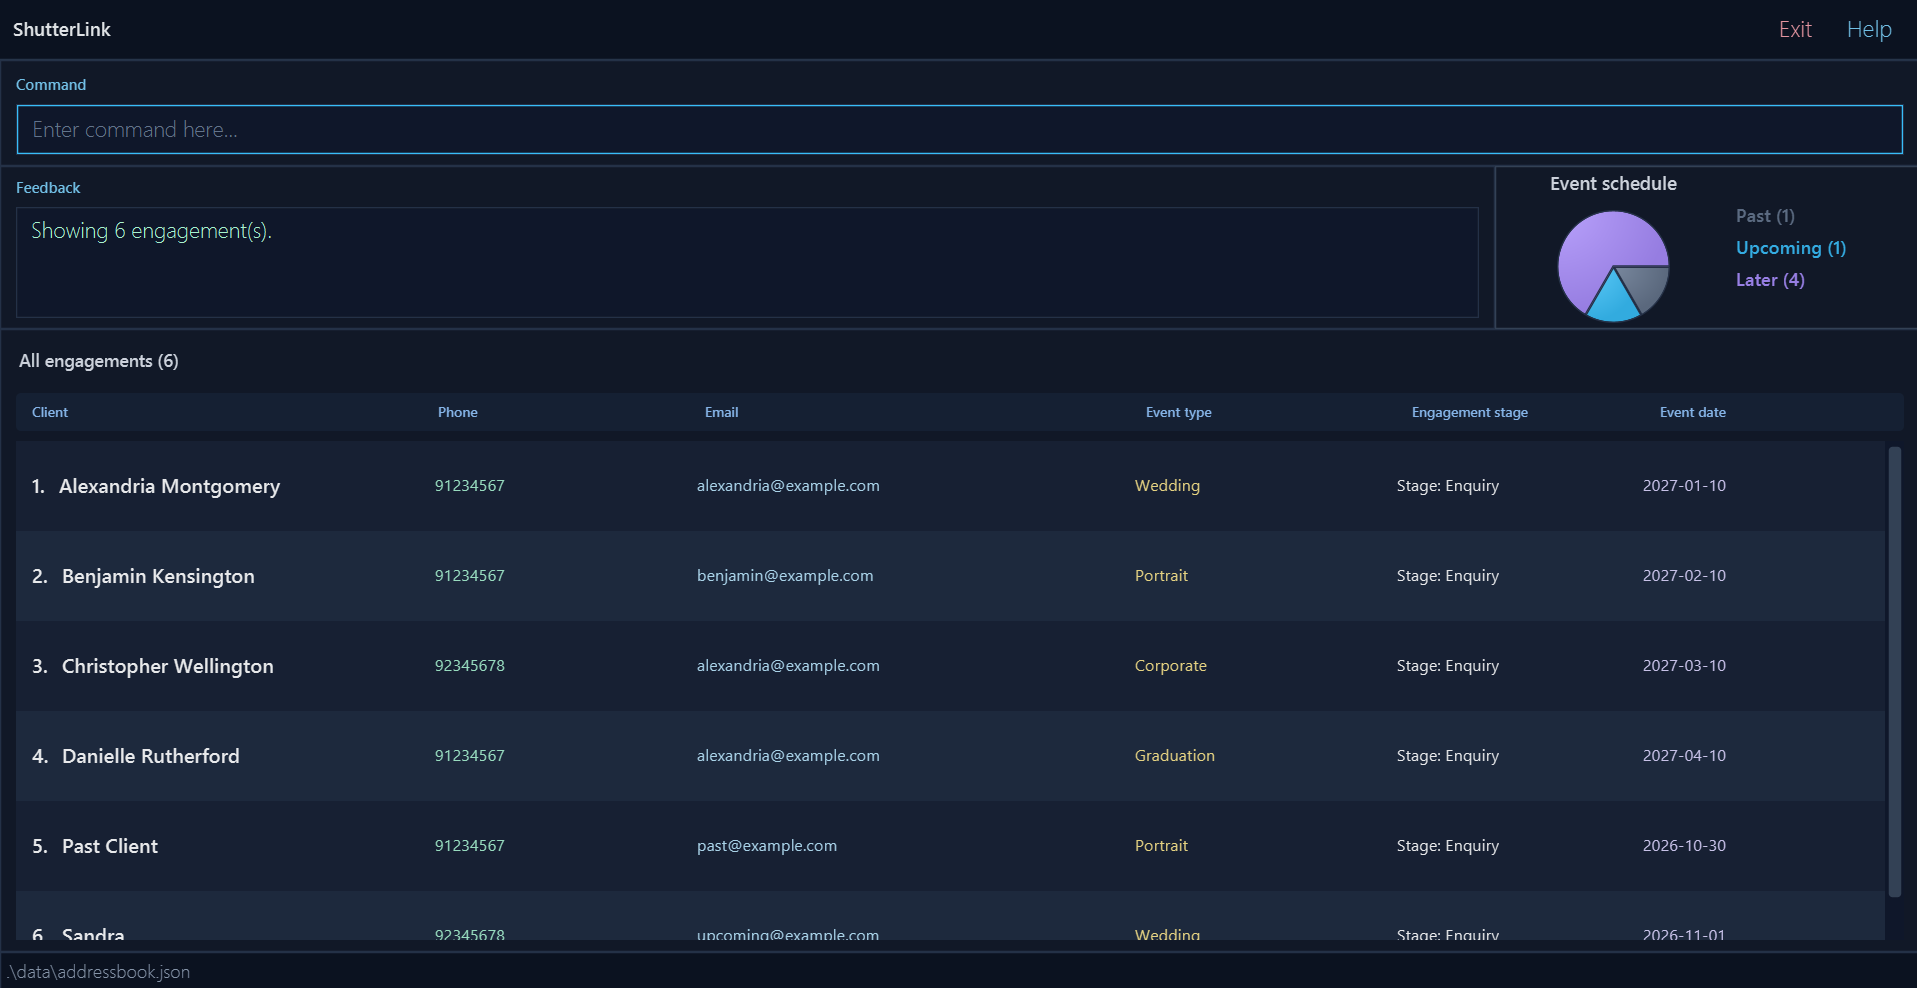
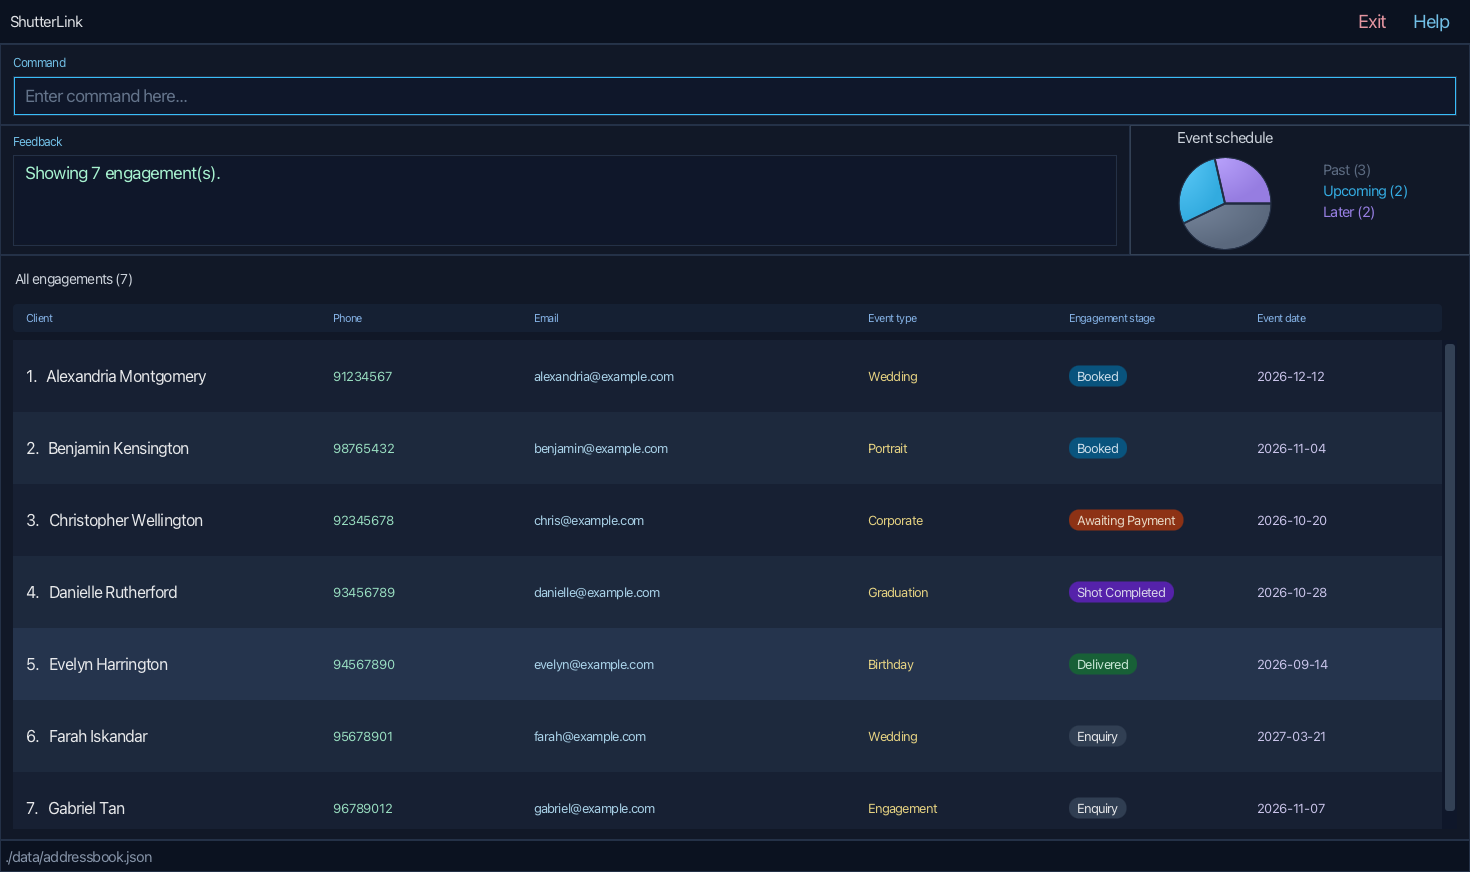
Colour engagement stages and explain empty lists
Show each card's stage as a coloured badge so the workflow can be
scanned at a glance, and reuse the colour in the details dialog. The
badge drops the redundant "Stage: " prefix, which the column header
already provides, so long stages are less likely to be truncated.

Show "No engagements to display." when the current view is empty,
instead of a blank list area.

Update Ui.png and the UG screenshots that show engagement cards.

diff --git a/src/main/resources/view/DarkTheme.css b/src/main/resources/view/DarkTheme.css
@@ -710,3 +710,35 @@
 #columnHeader {
     -fx-padding: 7 13 7 13;
 }
+
+/* Stage badges on cards and in the details dialog. Enquiry uses the base colours. */
+.label.stage-chip {
+    -fx-background-color: #334155;
+    -fx-background-radius: 10px;
+    -fx-padding: 2px 8px;
+    -fx-font-family: "Segoe UI Semibold";
+}
+
+.label.stage-booked {
+    -fx-background-color: #075985;
+    -fx-text-fill: #e0f2fe;
+}
+
+.label.stage-shot-completed {
+    -fx-background-color: #5b21b6;
+    -fx-text-fill: #ede9fe;
+}
+
+.label.stage-awaiting-payment {
+    -fx-background-color: #9a3412;
+    -fx-text-fill: #ffedd5;
+}
+
+.label.stage-delivered {
+    -fx-background-color: #166534;
+    -fx-text-fill: #dcfce7;
+}
+
+.list-placeholder {
+    -fx-text-fill: #94a3b8;
+}

diff --git a/src/test/java/seedu/address/ui/PersonCardTest.java b/src/test/java/seedu/address/ui/PersonCardTest.java
@@ -1,0 +1,51 @@
+package seedu.address.ui;
+
+import static org.junit.jupiter.api.Assertions.assertEquals;
+import static org.junit.jupiter.api.Assertions.assertTrue;
+
+import java.util.Arrays;
+import java.util.Locale;
+
+import org.junit.jupiter.api.Test;
+import org.junit.jupiter.api.condition.EnabledIfEnvironmentVariable;
+
+import javafx.scene.control.Label;
+import seedu.address.model.person.Stage;
+import seedu.address.testutil.PersonBuilder;
+
+class PersonCardTest {
+
+    @Test
+    void getStageStyleClass_eachStage_returnsDistinctHyphenatedClass() {
+        assertEquals("stage-enquiry", PersonCard.getStageStyleClass(Stage.ENQUIRY));
+        assertEquals("stage-shot-completed", PersonCard.getStageStyleClass(Stage.SHOT_COMPLETED));
+        assertEquals("stage-awaiting-payment", PersonCard.getStageStyleClass(Stage.AWAITING_PAYMENT));
+        assertEquals(Stage.values().length,
+                Arrays.stream(Stage.values()).map(PersonCard::getStageStyleClass).distinct().count());
+    }
+
+    @Test
+    void getStageStyleClass_turkishDefaultLocale_matchesStylesheetClass() {
+        Locale originalLocale = Locale.getDefault();
+        try {
+            // Turkish lowercases I to a dotless i, which would not match the stylesheet
+            Locale.setDefault(Locale.forLanguageTag("tr"));
+            assertEquals("stage-enquiry", PersonCard.getStageStyleClass(Stage.ENQUIRY));
+        } finally {
+            Locale.setDefault(originalLocale);
+        }
+    }
+
+    @Test
+    @EnabledIfEnvironmentVariable(named = "RUN_UI_TESTS", matches = "true")
+    void constructor_bookedEngagement_showsColouredStageBadge() throws Exception {
+        JavaFxTestUtil.runOnJavaFxThread(() -> {
+            PersonCard card = new PersonCard(new PersonBuilder().withStage("Booked").build(), 1);
+            Label stage = (Label) card.getRoot().lookup("#stage");
+
+            assertEquals("Booked", stage.getText());
+            assertTrue(stage.getStyleClass().containsAll(Arrays.asList("stage-chip", "stage-booked")));
+            return null;
+        });
+    }
+}

diff --git a/src/main/java/seedu/address/ui/PersonListPanel.java b/src/main/java/seedu/address/ui/PersonListPanel.java
@@ -58,6 +58,9 @@ public class PersonListPanel extends UiPart<Region> {
         super(FXML);
         personListView.setItems(personList);
         personListView.setCellFactory(listView -> new PersonListViewCell());
+        Label placeholder = new Label("No engagements to display.");
+        placeholder.getStyleClass().add("list-placeholder");
+        personListView.setPlaceholder(placeholder);
         personListView.setOnKeyPressed(event -> {
             if (event.getCode() == KeyCode.ENTER) {
                 Person selectedPerson = personListView.getSelectionModel().getSelectedItem();
@@ -167,7 +170,8 @@ public class PersonListPanel extends UiPart<Region> {
         eventSummary.getStyleClass().add("engagement-details-summary");
 
         Label stageBadge = new Label(person.getStage().toString());
-        stageBadge.getStyleClass().add("engagement-details-stage");
+        stageBadge.getStyleClass().addAll("engagement-details-stage", "stage-chip",
+                PersonCard.getStageStyleClass(person.getStage()));
 
         HBox metadataBar = new HBox(12, eventSummary, stageBadge);
         metadataBar.getStyleClass().add("engagement-details-metadata");

diff --git a/src/main/java/seedu/address/ui/PersonCard.java b/src/main/java/seedu/address/ui/PersonCard.java
@@ -1,11 +1,14 @@
 package seedu.address.ui;
 
+import java.util.Locale;
+
 import javafx.fxml.FXML;
 import javafx.scene.control.Label;
 import javafx.scene.control.Tooltip;
 import javafx.scene.layout.HBox;
 import javafx.scene.layout.Region;
 import seedu.address.model.person.Person;
+import seedu.address.model.person.Stage;
 
 /**
  * A UI component that displays information of a {@code Person}.
@@ -53,8 +56,16 @@ public class PersonCard extends UiPart<Region> {
         eventType.setText(person.getEventType().value);
         email.setText(person.getEmail().value);
         eventDate.setText(person.getEventDate().toString());
-        stage.setText("Stage: " + person.getStage());
+        stage.setText(person.getStage().toString());
+        stage.getStyleClass().add(getStageStyleClass(person.getStage()));
         addFullValueTooltips(name, phone, email, eventType, stage, eventDate);
+    }
+
+    /**
+     * Returns the style class that colours {@code stage}, such as {@code stage-shot-completed}.
+     */
+    static String getStageStyleClass(Stage stage) {
+        return "stage-" + stage.name().toLowerCase(Locale.ROOT).replace('_', '-');
     }
 
     /**

diff --git a/src/test/java/seedu/address/ui/PersonListPanelUiTest.java b/src/test/java/seedu/address/ui/PersonListPanelUiTest.java
@@ -46,6 +46,17 @@ class PersonListPanelUiTest {
         });
     }
 
+    @Test
+    void constructor_emptyList_showsPlaceholderMessage() throws Exception {
+        JavaFxTestUtil.runOnJavaFxThread(() -> {
+            PersonListPanel panel = new PersonListPanel(FXCollections.observableArrayList());
+            ListView<?> listView = (ListView<?>) panel.getRoot().lookup("#personListView");
+
+            assertEquals("No engagements to display.", ((Label) listView.getPlaceholder()).getText());
+            return null;
+        });
+    }
+
     private static <T> ListCell<T> createCell(ListView<T> listView) {
         return listView.getCellFactory().call(listView);
     }

diff --git a/src/test/java/seedu/address/ui/PersonCardTooltipTest.java b/src/test/java/seedu/address/ui/PersonCardTooltipTest.java
@@ -39,7 +39,7 @@ class PersonCardTooltipTest {
                         "phone", person.getPhone().value,
                         "email", person.getEmail().value,
                         "eventType", person.getEventType().value,
-                        "stage", "Stage: " + person.getStage(),
+                        "stage", person.getStage().toString(),
                         "eventDate", person.getEventDate().toString());
                 for (Map.Entry<String, String> field : expectedFields.entrySet()) {
                     Label label = (Label) card.getRoot().lookup("#" + field.getKey());

diff --git a/docs/UserGuide.md b/docs/UserGuide.md
@@ -57,7 +57,7 @@ The screenshots below use fictional engagements in the current interface. Your r
 | **Feedback** | Read the command result or error. Results are shown in green, possible-typo warnings after a successful add or edit in amber, and errors in red. The text always states the outcome, so the colours are only a visual aid. |
 | Event schedule | Compare the proportions of past, upcoming and later engagements in the current displayed list. The legend shows each count. |
 | List heading | Check which view is active and how many engagements it contains. |
-| Engagement cards | Read each displayed index, client name, phone, email, event type, event date, and stage. Scroll to see additional cards. Double-click an engagement card, or select it with the keyboard and press Enter, to open its complete details. |
+| Engagement cards | Read each displayed index, client name, phone, email, event type, event date, and stage. Each stage has its own badge colour, so you can scan the workflow at a glance; the stage name is always shown as text too. An empty view shows `No engagements to display.` Scroll to see additional cards. Double-click an engagement card, or select it with the keyboard and press Enter, to open its complete details. |
 | **Help** | Open the command reference using the button, `help`, or F1. |
 
 In the event schedule chart, **Upcoming** means an event dated today through the following six calendar dates,

diff --git a/docs/DeveloperGuide.md b/docs/DeveloperGuide.md
@@ -118,6 +118,12 @@ style class using the same `-error-colour` as the command field's error border. 
 highlight. The class is not named `error` because the global `.error` rule in `Extensions.css` sets an `!important`
 text colour that would override it.
 
+`PersonCard` shows the stage as a badge. `PersonCard#getStageStyleClass` derives a style class such as
+`stage-shot-completed` from the `Stage` constant, using `Locale.ROOT` so that the name matches `DarkTheme.css` in
+every locale, and the details dialog reuses the same class for its stage badge. A new stage therefore needs only a
+matching CSS rule; without one, it uses the neutral `stage-chip` colours shared with `Enquiry`. When the displayed list
+is empty, `PersonListPanel` shows a `No engagements to display.` placeholder instead of a blank area.
+
 ### Logic component
 
 **API**:
